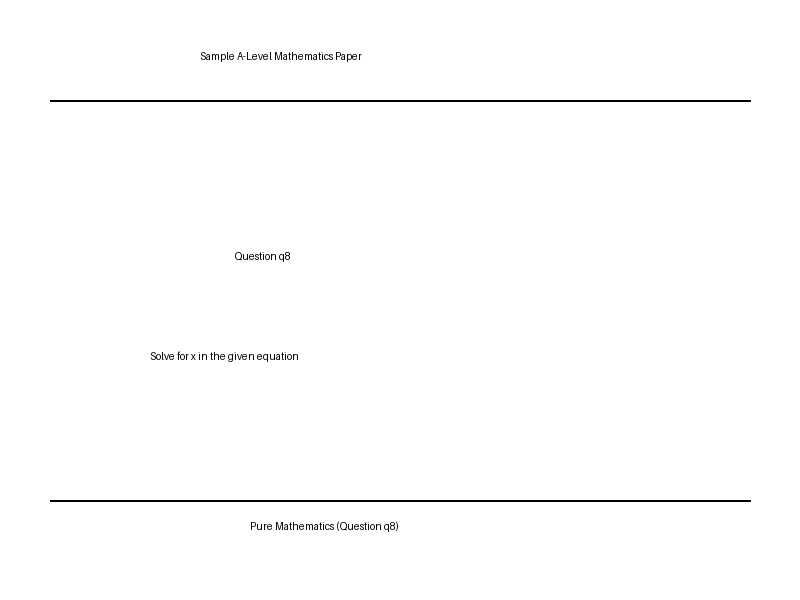
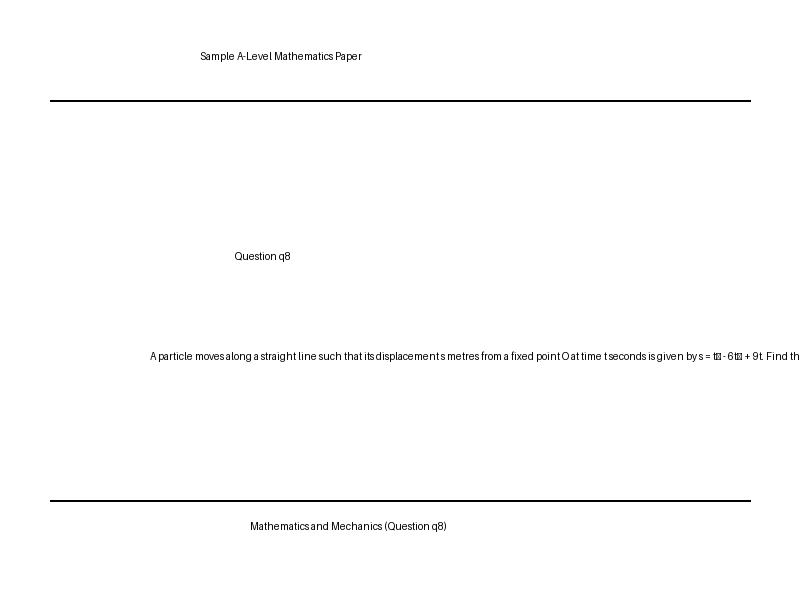
Fixed a problem with some math questions
Corrected questions in the June 2023 Maths and Mechanics paper (paper_55) by adding paper type to the question generation logic in `create_unique_images.py`.  Updated image files for affected questions.

Replit-Commit-Author: Agent
Replit-Commit-Session-Id: c970012f-0c6e-4be9-8d35-829b51b2e0f5
Replit-Commit-Screenshot-Url: https://storage.googleapis.com/screenshot-production-us-central1/a7663fbb-06ba-4800-a43e-c6bb4884601c/45bbdc1c-824d-4b90-8933-98ef4af207e9.jpg

Changed region(s): [[0.1875, 0.57, 1.0, 0.6], [0.3125, 0.87, 0.5625, 0.9]]

diff --git a/create_unique_images.py b/create_unique_images.py
@@ -44,36 +44,69 @@ def create_question_image(question_number, path):
     # Draw with large size
     draw.text((text_x, text_y), question_text, fill='black', font=None)
     
-    # Add some mathematical content appropriate for question number
+    # Add some mathematical content appropriate for question number and paper type
     math_content = ""
-    if question_number == "1":
-        math_content = "Solve the quadratic equation: x² + 5x + 6 = 0"
-    elif question_number == "2":
-        math_content = "Differentiate f(x) = 3x² + 2x - 5 with respect to x"
-    elif question_number == "3":
-        math_content = "Find the integral of g(x) = 2x + cos(x) with respect to x"
-    elif question_number == "4":
-        math_content = "Solve the system of equations: 2x + y = 7, x - y = 1"
-    elif question_number == "5":
-        math_content = "If f(x) = x³ - 3x + 2, find f'(2)"
-    elif question_number == "6":
-        math_content = "Find the equation of the tangent to y = x² at x = 3"
-    elif question_number == "7":
-        math_content = "Calculate the area under the curve y = x² between x = 0 and x = 4"
-    elif question_number == "8":
-        math_content = "Find the maximum value of f(x) = -x² + 8x - 12"
-    elif question_number == "9":
-        math_content = "Solve the inequality: 2x - 3 > 5x + 2"
-    elif question_number == "10":
-        math_content = "The gradient of a curve at point (2, 3) is 4. Find its equation."
-    elif question_number == "11":
-        math_content = "If f(x) = 2ˣ and g(x) = x + 3, find (f∘g)(2)"
-    elif question_number == "12":
-        math_content = "Simplify the expression: log₃(27) - log₃(9) + log₃(3)"
-    elif question_number == "13":
-        math_content = "Find all values of x such that sin(x) = 0.5, where 0 ≤ x ≤ 2π"
+    
+    # Check if this paper is for Mechanics content (paper_id 55)
+    paper_id = os.path.basename(os.path.dirname(path)).replace("paper_", "")
+    is_mechanics_paper = (paper_id == "55")
+    
+    if is_mechanics_paper:
+        # Mechanics questions
+        if question_number == "1":
+            math_content = "A particle P moves with constant acceleration (3i − 2j) m s⁻². At time t = 4 seconds, P has velocity 6i m s⁻¹. Determine the speed of P at time t = 0 seconds."
+        elif question_number == "2":
+            math_content = "A car of mass 1200 kg accelerates from rest at a constant rate of 2.5 m s⁻² for 8 seconds. Calculate the work done by the engine during this time."
+        elif question_number == "3":
+            math_content = "A ball is thrown vertically upward with an initial velocity of 25 m s⁻¹. Find the maximum height reached by the ball. Take g = 9.8 m s⁻²."
+        elif question_number == "4":
+            math_content = "A force F = (4i + 5j) N acts on a particle that moves from position (1, 2) m to (3, 7) m. Calculate the work done by the force."
+        elif question_number == "5":
+            math_content = "A block of mass 5 kg is pushed up a rough inclined plane by a horizontal force of 60 N. If the coefficient of friction is 0.3 and the plane is inclined at 30° to the horizontal, find the acceleration of the block."
+        elif question_number == "6":
+            math_content = "Two particles connected by a light inextensible string pass over a smooth pulley. If one has mass 3 kg and the other 5 kg, find the acceleration of the system."
+        elif question_number == "7":
+            math_content = "A projectile is fired with an initial velocity of 80 m s⁻¹ at an angle of 30° to the horizontal. Find the range and the maximum height reached. Take g = 9.8 m s⁻²."
+        elif question_number == "8":
+            math_content = "A particle P moves with constant acceleration (3i − 2j) m s⁻². At time t = 4 seconds, P has velocity 6i m s⁻¹. Determine the speed of P at time t = 0 seconds."
+        elif question_number == "9":
+            math_content = "A car of mass 1500 kg is traveling at 20 m s⁻¹ when the brakes are applied, causing a constant deceleration of 4 m s⁻². Calculate the stopping distance and the work done by the brakes."
+        elif question_number == "10":
+            math_content = "A body of mass 2 kg is suspended from a spring with stiffness 50 N m⁻¹. If the body is pulled down 0.2 m from its equilibrium position and released, find the subsequent motion."
+        elif question_number == "11":
+            math_content = "A pendulum consists of a bob of mass 0.5 kg attached to a string of length 1 m. If it is released from rest at an angle of 10° to the vertical, find the tension in the string at the lowest point."
+        else:
+            math_content = "A particle moves along a straight line such that its displacement s metres from a fixed point O at time t seconds is given by s = t³ - 6t² + 9t. Find the values of t when the particle is momentarily at rest."
     else:
-        math_content = "Solve for x in the given equation"
+        # Pure Mathematics questions (original content)
+        if question_number == "1":
+            math_content = "Solve for x in the given equation: x² + 5x + 6 = 0"
+        elif question_number == "2":
+            math_content = "Differentiate f(x) = 3x² + 2x - 5 with respect to x"
+        elif question_number == "3":
+            math_content = "Find the integral of g(x) = 2x + cos(x) with respect to x"
+        elif question_number == "4":
+            math_content = "Solve the system of equations: 2x + y = 7, x - y = 1"
+        elif question_number == "5":
+            math_content = "If f(x) = x³ - 3x + 2, find f'(2)"
+        elif question_number == "6":
+            math_content = "Find the equation of the tangent to y = x² at x = 3"
+        elif question_number == "7":
+            math_content = "Calculate the area under the curve y = x² between x = 0 and x = 4"
+        elif question_number == "8":
+            math_content = "Find the maximum value of f(x) = -x² + 8x - 12"
+        elif question_number == "9":
+            math_content = "Solve the inequality: 2x - 3 > 5x + 2"
+        elif question_number == "10":
+            math_content = "The gradient of a curve at point (2, 3) is 4. Find its equation."
+        elif question_number == "11":
+            math_content = "If f(x) = 2ˣ and g(x) = x + 3, find (f∘g)(2)"
+        elif question_number == "12":
+            math_content = "Simplify the expression: log₃(27) - log₃(9) + log₃(3)"
+        elif question_number == "13":
+            math_content = "Find all values of x such that sin(x) = 0.5, where 0 ≤ x ≤ 2π"
+        else:
+            math_content = "Solve for x in the given equation"
     
     # Draw the math content below the question number
     draw.text((width//2 - 250, height//2 + 50), math_content, fill='black', font=None)
@@ -81,8 +114,11 @@ def create_question_image(question_number, path):
     # Draw a line at the bottom
     draw.line([(50, height-100), (width-50, height-100)], fill='black', width=2)
     
-    # Add a note at the bottom
-    draw.text((width//2 - 150, height-80), f"Pure Mathematics (Question {question_number})", fill='black', font=None)
+    # Add a note at the bottom with correct paper type
+    if is_mechanics_paper:
+        draw.text((width//2 - 150, height-80), f"Mathematics and Mechanics (Question {question_number})", fill='black', font=None)
+    else:
+        draw.text((width//2 - 150, height-80), f"Pure Mathematics (Question {question_number})", fill='black', font=None)
     
     # Save the image
     image.save(path)
